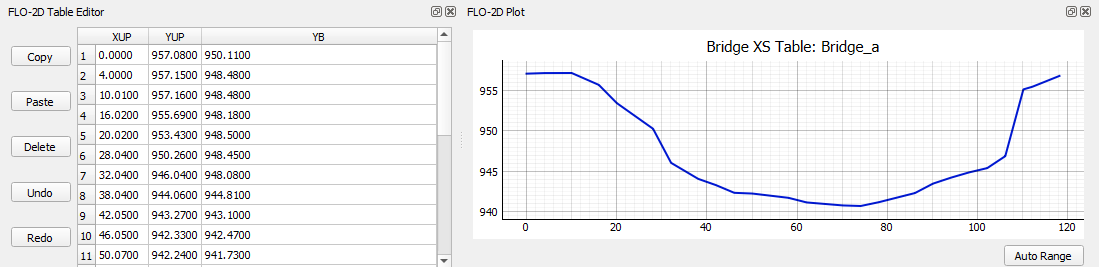
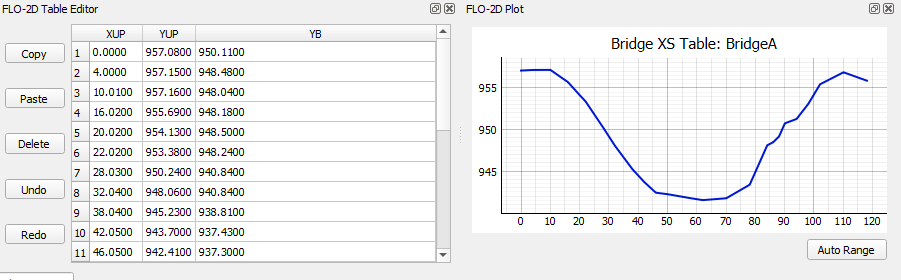
Update the Hydraulic Structure Sections up to Examples

diff --git a/source/flo-2d_plugin/user_manual/widgets/hydraulic-structure-editor/Hydraulic Structure Editor.rst b/source/flo-2d_plugin/user_manual/widgets/hydraulic-structure-editor/Hydraulic Structure Editor.rst
@@ -17,7 +17,7 @@ Overview
 
 The Hydraulic Structure Editor provides a graphical user interface for defining and managing hydraulic structures within the FLO-2D Plugin. These structures control the movement of water between grid elements and are essential for simulating culverts, bridges, weirs, storm drains, and pumps in both floodplain and channel systems.
 
-This editor generates the `HYSTRUC.DAT` input file automatically, allowing users to focus on setting realistic structure parameters without manually editing text files. The editor supports all structure types and configurations available in FLO-2D, including:
+The editor supports all structure types and configurations available in FLO-2D, including:
 
 - Floodplain-to-floodplain culverts using rating curves or culvert equations
 - Channel-to-channel hydraulic structures with optional replacement curves
@@ -78,7 +78,7 @@ Structure Editor Control
 Structure Parameters I
 ~~~~~~~~~~~~~~~~~~~~~~~~~~~~
 
-.. image:: ../../img/Hydraulic-Structure-Editor/hydr004.png
+.. image:: ../../img/Hydraulic-Structure-Editor/hydr005.png
 
 - **Name**  
   Enter or select the name of the structure. This identifies the outflow boundary condition in the project.
@@ -100,13 +100,15 @@ Structure Parameters I
   Use this button to rename the selected structure. The name is alpha-numeric with 30 ascii characters and no spaces.
 
 - **Locate**  
-  Click the locate (eye) button to zoom and center the map on the selected structure.
+  Click the locate (eye) toggle button to zoom and center the map on the selected structure.
 
 Structure Hydraulic Control
 ~~~~~~~~~~~~~~~~~~~~~~~~~~~~~~~~
 
 .. image:: ../../img/Hydraulic-Structure-Editor/hydr007.png
 
+
+**Hydraulic Control**
 
 Select the hydraulic control method that governs flow through the structure. The options correspond to different modeling approaches in FLO-2D:
 
@@ -116,8 +118,9 @@ Select the hydraulic control method that governs flow through the structure. The
 4. **Bridge routine** – Applies a specialized bridge flow routine based on physical dimensions and flow coefficients.
 
 
-- **Load Rating Tables**  
-  Click the **Import Rating Tables** button to load pre-defined rating data into the model.
+**Load Rating Tables**  
+
+Click the **Import Rating Tables** button to load pre-defined rating data into the model.
 
 Tailwater Control
 ~~~~~~~~~~~~~~~~~~~~~~~
@@ -172,7 +175,7 @@ These parameters are used when defining culvert or conduit characteristics for h
 
   **Culvert Equation**
   
-  Defines the total length of the culvert (feet or meters). Apply this length when using the **culvert equation** method.
+  Defines the total length of the culvert (ft or m). Apply this length when using the **culvert equation** method.
 
   **Long Culvert**
 
@@ -182,37 +185,110 @@ These parameters are used when defining culvert or conduit characteristics for h
    - The **flow area** must be defined (using `ATABLE` or related variables).
    - Long culverts simulate **storage** and **travel time**, unlike other structures that convey flow instantaneously.
 
-- **Circular Diameter or Box Culvert Height**  
-  Specifies the size of the structure. For circular culverts, enter the internal diameter. For box culverts, enter the internal height. 
-  This value is critical for determining capacity and flow behavior.
+**Circular Diameter or Box Culvert Height**
 
+If the structure does not use a long culvert or culvert equation, enter **0.0** for both length and diameter.
+
+Defines the internal size of the culvert (ft or m).
+
+**Culvert Equation**
+
+- For **circular culverts**, enter the **internal diameter**.
+- For **box culverts**, enter the **internal height**.
+
+**Long Culvert**
+
+- Use **diameter only** for flow area calculations.
+- Must be paired with **culvert length** and **area table**.
+- Only compatible with **rating table** structures.
 
 Table Editor and Plot
 -------------------------------
 
 .. image:: ../../img/Hydraulic-Structure-Editor/hydr010.png
 
-**Rating Curve**
+The Table Editor and Plot section defines the rating relationships or hydraulic parameters associated with the selected structure type. Each configuration corresponds to variables in the `HYSTRUC.DAT` input file.
+
+**Rating Curve Table Editor**
 
 .. image:: ../../img/Hydraulic-Structure-Editor/hydr011.png
 
-**Replacement Curve**
+The Rating Curve Table Editor is used to define the structure’s flow behavior using headwater-dependent equations. Each column corresponds to a variable in the `HYSTRUC.DAT` file. These parameters are described in detail in the Data Input Manual and are used in combinations based on the selected structure type.
 
-.. image:: ../../img/Hydraulic-Structure-Editor/hydr012.png
+.. list-table:: Rating Curve Table Columns
+   :widths: 20 80
+   :header-rows: 1
+
+   * - Variable
+     - Description
+   * - HDEPEXC
+     - Maximum headwater depth valid for the rating curve.
+   * - COEFQ, EXPQ
+     - Discharge equation: Q = COEFQ * depth^EXPQ
+   * - COEFA, EXPA
+     - Area equation for long culverts: A = COEFA * depth^EXPA
+   * - REPDEP
+     - Depth at which to switch to a replacement curve.
+   * - RQCOEF, RQEXP
+     - Discharge equation for replacement curve.
+   * - RACOEF, RAEXP
+     - Area equation for replacement curve (long culverts only).
+
+See the :ref:`HYSTRUC.DAT <data_input_manual>` section of the Data Input Manual for complete parameter descriptions and valid input ranges.
 
 **Rating Table**
 
 .. image:: ../../img/Hydraulic-Structure-Editor/hydr013.png
 
+The rating table method defines flow through the structure using headwater depth (`HDEPTH`) and corresponding discharge (`QTABLE`). 
+FLO-2D applies linear interpolation between rows to estimate the flow rate for any given depth during the simulation.
+
+- `HDEPTH` – Headwater depth above the structure reference elevation (ft or m).
+- `QTABLE` – Discharge value associated with each headwater depth (cfs or cms).
+- `ATABLE` – (Optional) Cross-sectional flow area vs depth (ft\ :sup:`2` or m\ :sup:`2`) used in volume routing for long culverts. Enter **0.0** if not applicable.
+
+The adjacent plot updates automatically and displays the rating curve graphically as depth vs. discharge. 
+Ensure the first entry begins with `HDEPTH = 0.0` and `QTABLE = 0.0` to allow proper interpolation between the first two rows.
+
+.. tip::
+   This method is commonly used for culverts, weirs, and other structures where detailed hydraulic calculations have already been performed externally or measured in the field.
+
 **Culvert Equation**
 
 .. image:: ../../img/Hydraulic-Structure-Editor/hydr014.png
+
+The culvert equation method computes flow using geometric and frictional parameters defined by the U.S. Department of Transportation equations. This table allows input of the following:
+
+- `TYPEC` – Culvert shape: 1 = box, 2 = pipe  
+- `TYPEEN` – Entrance configuration (1–3 based on shape)  
+- `CULVERTN` – Manning’s n-value for internal culvert roughness  
+- `KE` – Entrance loss coefficient  
+- `CUBASE` – Width of the box culvert or set to 0 for circular culverts  
+- `MULTBARRELS` – Number of identical culvert barrels or cells
+
+These parameters are used to estimate flow under both inlet and outlet control conditions. For additional guidance on selecting values and entrance types, refer to the :ref:`Culvert Equation Data <culvert_equation_data>` section.
+
 
 **Bridge Routine**
 
 .. image:: ../../img/Hydraulic-Structure-Editor/hydr015.png
 
-The table editor is used to define the upstream and downstream cross sections for the bridge routine.
+The bridge routine provides a detailed method for modeling flow through bridge openings using upstream and downstream cross sections and coefficient-based flow equations derived from U.S. Geological Survey (USGS) research.
+
+This configuration allows input of:
+
+This table defines the upstream and downstream cross sections used in the bridge routine. Cross section geometry is entered as station-elevation points along the bridge profile:
+
+- `XUP`, `YUP` – Station of each cross section point
+- `YUP` – Elevation of the upstream cross section.
+- `YB` – Elevation of the corresponding downstream point at the same station
+
+The table must define a continuous profile across the full bridge opening, including abutments, channel bed, and any roadway or deck geometry. The plotted cross section provides a visual check of the entered values.
+
+These cross sections are used by the bridge routine in conjunction with flow coefficients and structure parameters (e.g., pier width, low chord elevation) to compute flow through the bridge.
+
+.. note::
+   For a complete example showing how to use this table along with the bridge coefficients and geometry fields, refer to the :ref:`Bridge Example <bridge_example>` in the Examples section.
 
 Example Configurations
 ---------------------------
@@ -547,8 +623,9 @@ Entrance Loss Coefficient Table (HDS-5)
 
 .. note:: These values are based on the *Hydraulic Design of Highway Culverts – HDS-5 – Third Edition* and used in outlet control flow calculations.
 
+.. _bridge_example:
 
-Bridge
+Bridge Example
 ----------------
 
 Bridge parameters can be defined for a structure.
